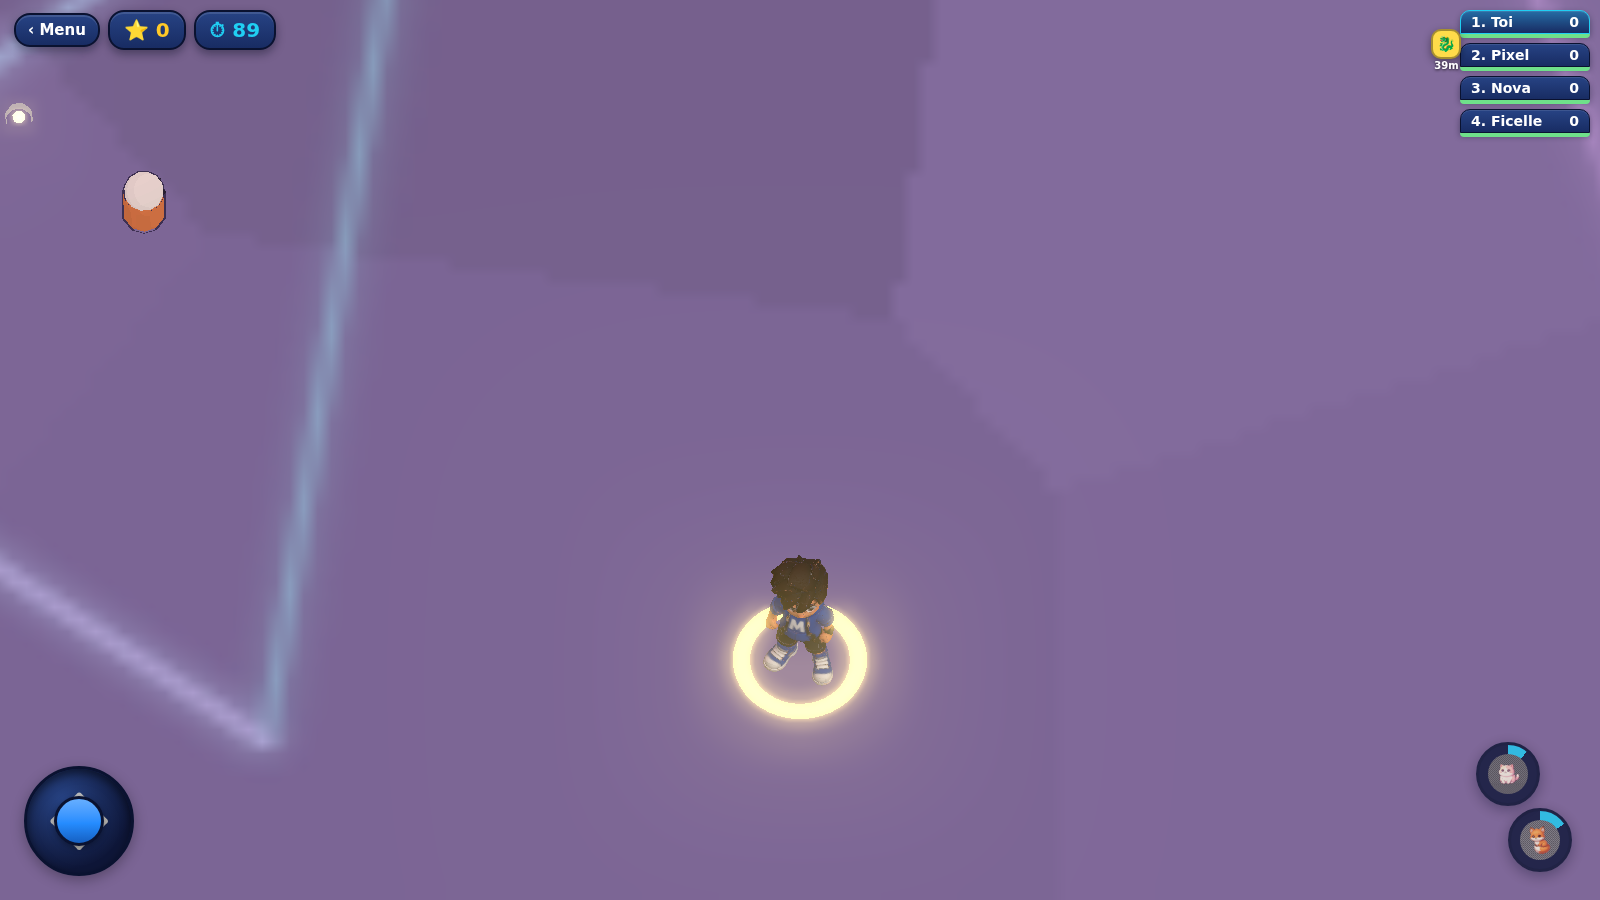
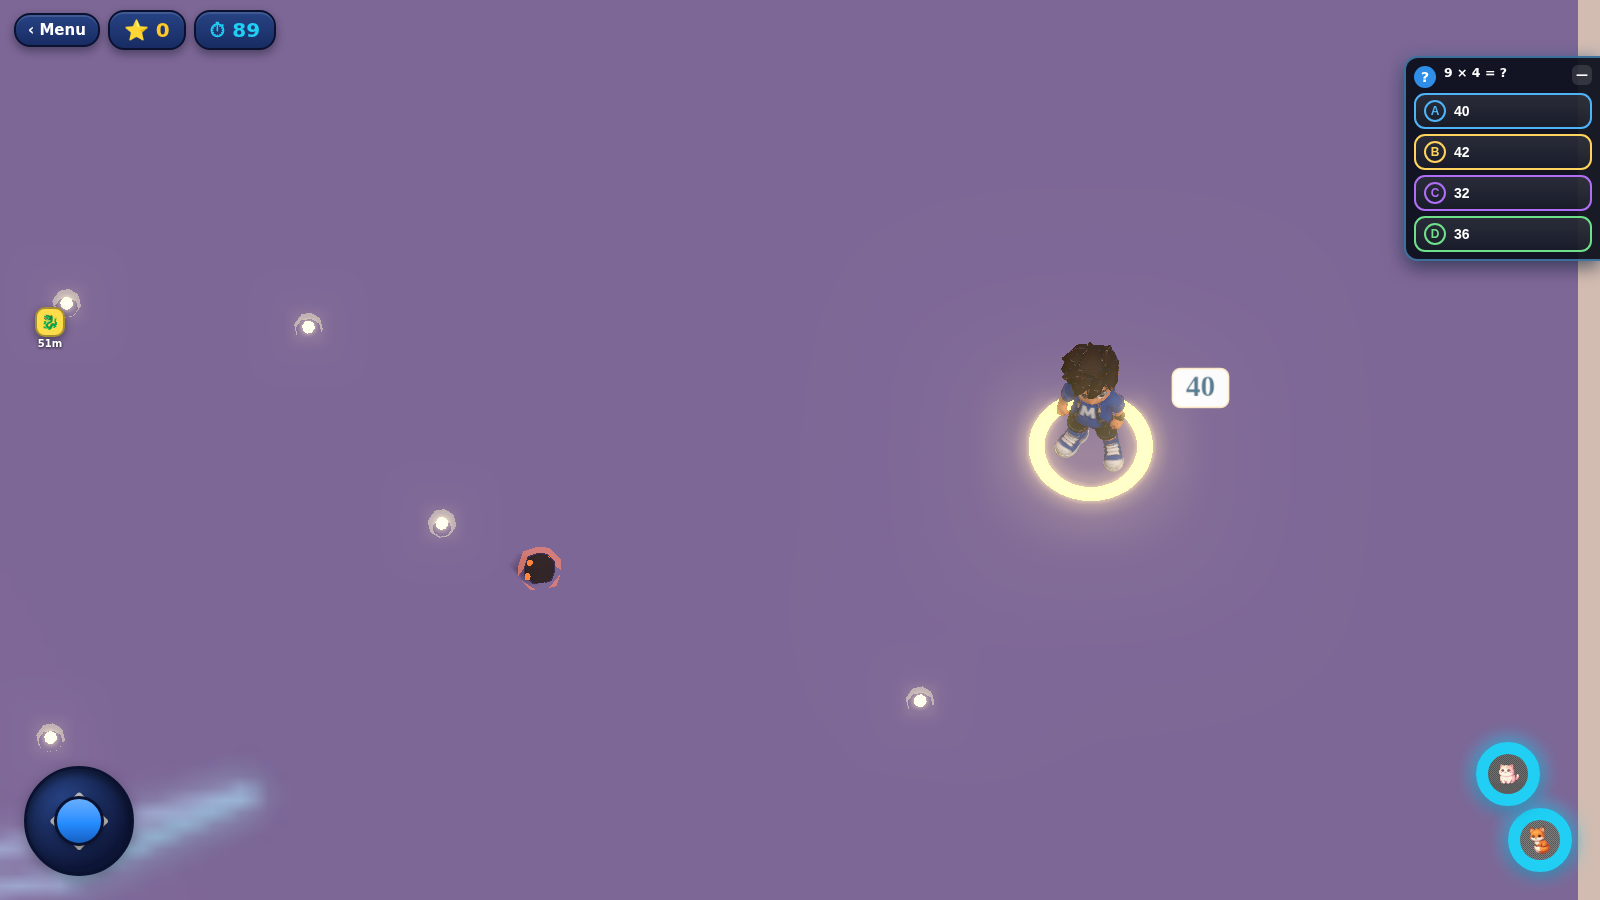
Arène : GAMEPLAY V4 — question dès le départ, choix libre verrouillé, guidage séquentiel
Spec V4 complète de Camille (2026-08-10), implémentée sur l'existant :

- §1-2 : la question + les réponses apparaissent au top départ, en même
  temps que le dragon (startDragonQuestion depuis spawnLumin) — plus de
  phase vide, plus d'attente de la 1re capture
- §3-4 : AUCUN timer de réponse (barre 5 s supprimée) ; panneau
  rétractable par la languette « — », ré-ouvrable par la pilule « ? »
  tant qu'aucune réponse n'est choisie
- §5 : le choix est VERROUILLÉ pour la tentative (plus de toggle), le
  panneau et la pilule disparaissent, « Réponse choisie : X » bref
- §6/§10/§17 : guidage SÉQUENTIEL — l'indicateur 🐉 de bord d'écran vit
  tant que le joueur ne porte pas (dragon libre OU porteur adverse) ;
  les chevrons+distance n'existent que porteur+réponse ; jamais les deux
- §12 : badges de zones supprimés ; seule la colonne de lumière de la
  zone CHOISIE s'allume (les zones restent physiquement dans le monde)
- §7/§18 : icône 🐉 au-dessus de la tête du porteur (sprite),
  vibration mobile à la capture locale (pas de flash plein écran — règle
  DA « jamais de voile » ; pas de son — aucun système audio)
- §9 : capture sans réponse → panneau ré-ouvert automatiquement (STATE 2)
- §15-16 : mauvaise tentative du joueur → selectedAnswer=null, panneau
  accessible à nouveau, zone désactivée (mécanique existante conservée)

Machine d'états vérifiée par probe complet (STATE 1 → réduction →
ré-ouverture → choix verrouillé → capture/STATE 3 → mauvaise réponse →
[…]

diff --git a/public/spike3d-arena.html b/public/spike3d-arena.html
@@ -75,10 +75,12 @@
          box-shadow: 0 6px 18px rgba(4,9,28,0.55), 0 0 14px rgba(96,190,255,0.25);
          display: none; pointer-events: auto; }
   #question-block.show { display: block; }
-  /* barre de temps de réponse (5 s) : pilotée en JS — jamais par une
-     transition CSS (figée en rendu logiciel, piège gravé le 2026-08-09) */
-  #qb-bar { height: 4px; border-radius: 2px; margin-bottom: 6px;
-         background: linear-gradient(90deg, #4fb3f7, #8ef0c9); width: 100%; }
+  /* languette de réduction du panneau (V4 §3 — pas de timer de réponse) */
+  #qb-min { flex: 0 0 auto; margin-left: auto; width: 20px; height: 20px;
+         border-radius: 6px; background: rgba(255,255,255,0.12); color: #fff;
+         font-weight: 900; font-size: 12px; display: flex; align-items: center;
+         justify-content: center; cursor: pointer;
+         -webkit-tap-highlight-color: transparent; }
   /* bouton « ? » de ré-ouverture quand le bloc est masqué en pleine question */
   #qb-reopen { position: fixed; top: max(56px, var(--safe-top) + 52px);
          right: 0; z-index: 15; width: 34px; height: 34px;
@@ -538,8 +540,7 @@
      réponses empilées cliquables — remplace le bandeau pour les questions
      (le bandeau ne sert plus qu'aux annonces). -------- -->
 <div id="question-block">
-  <div id="qb-bar"></div>
-  <div class="qb-head"><span class="qb-qmark">?</span><span id="qb-text"></span></div>
+  <div class="qb-head"><span class="qb-qmark">?</span><span id="qb-text"></span><span id="qb-min">—</span></div>
   <div id="qb-answers"></div>
 </div>
 <div id="qb-reopen">?</div>
@@ -913,38 +914,30 @@ const ZONE_COLORS = { A: 0x4fb3f7, B: 0xffd35c, C: 0xb06ef5, D: 0x6fe08a };
 // 2026-08-10 : « l'utilisateur sélectionne la réponse et une flèche devant
 // le personnage, comme une boussole, lui affiche la direction ») --------
 let selectedZoneLetter = null;
-// -------- cycle de vie du bloc de question (retour Camille 2026-08-10) :
-// visible 5 s (barre décomptée en haut, pilotée en JS), s'efface dès que
-// le joueur a choisi OU à l'expiration ; le bouton « ? » au bord droit le
-// ré-ouvre tant que la question est active --------
-const QB_READ_SECONDS = 5;
-let qbTimerInterval = 0;
+// -------- cycle de vie du bloc de question — GAMEPLAY V4 (spec Camille
+// 2026-08-10) : question visible dès le GO, AUCUN timer de réponse (la
+// pression vient du jeu), panneau rétractable (« — » pour réduire, « ? »
+// pour rouvrir) tant qu'aucune réponse n'est choisie ; le CHOIX est
+// VERROUILLÉ pour la tentative, le panneau disparaît alors totalement --------
 function showQuestionBlock() {
-  const block = document.getElementById('question-block');
-  block.classList.add('show');
+  document.getElementById('question-block').classList.add('show');
   document.getElementById('qb-reopen').classList.remove('show');
-  const bar = document.getElementById('qb-bar');
-  const deadline = performance.now() + QB_READ_SECONDS * 1000;
-  clearInterval(qbTimerInterval);
-  bar.style.width = '100%';
-  qbTimerInterval = setInterval(() => {
-    const left = Math.max(0, deadline - performance.now());
-    bar.style.width = `${(left / (QB_READ_SECONDS * 1000)) * 100}%`;
-    if (left <= 0) hideQuestionBlock();
-  }, 100);
 }
 function hideQuestionBlock() {
-  clearInterval(qbTimerInterval);
   document.getElementById('question-block').classList.remove('show');
-  // ré-ouverture possible tant que la question est active
-  document.getElementById('qb-reopen').classList.toggle('show', dragonQuestionActive);
+  // la pilule « ? » n'est proposée que si la question est encore ouverte
+  // au choix (spec V4 §3 : « disponible tant qu'aucune réponse choisie »)
+  document.getElementById('qb-reopen').classList.toggle('show',
+    dragonQuestionActive && !selectedZoneLetter);
 }
 function selectAnswerZone(letter) {
-  selectedZoneLetter = selectedZoneLetter === letter ? null : letter;
+  if (!letter || selectedZoneLetter || !dragonQuestionActive) return; // choix verrouillé (V4 §5)
+  selectedZoneLetter = letter;
   document.querySelectorAll('.qa-row').forEach(c =>
     c.classList.toggle('selected', c.dataset.letter === selectedZoneLetter));
-  // choix fait → le bloc s'efface, les chevrons prennent le relais
-  if (selectedZoneLetter) hideQuestionBlock();
+  hideQuestionBlock();
+  spawnFloatingText(player.position.clone().add(new THREE.Vector3(0, 1.9, 0)),
+    `Réponse choisie : ${letter}`, hexCss(ZONE_COLORS[letter]));
 }
 let compassArrow = null;
 function ensureCompassArrow() {
@@ -2618,17 +2611,17 @@ function updateOffscreenIndicator(key, worldX, worldZ, colorHex, glyph) {
 function updateOffscreenIndicators() {
   if (luminState === 'AVAILABLE' && currentLumin) {
     updateOffscreenIndicator('dragon', currentLumin.position.x, currentLumin.position.z, 0xffdc4a, '🐉');
+  } else if (luminState === 'CARRIED' && luminOwnerId && luminOwnerId !== player) {
+    // -------- V4 §17 : dragon porté par un ADVERSAIRE → l'indicateur suit
+    // le porteur (guidage « vers le dragon / porteur ») --------
+    updateOffscreenIndicator('dragon', luminOwnerId.position.x, luminOwnerId.position.z, 0xffdc4a, '🐉');
   } else {
     removeOffscreenEl('dragon');
   }
-  ZONE_LETTERS.forEach(letter => {
-    const zone = zones.find(z => z.letter === letter);
-    if (zone && !zone.eliminated) {
-      updateOffscreenIndicator(`zone-${letter}`, zone.pos.x, zone.pos.z, ZONE_COLORS[letter], letter);
-    } else {
-      removeOffscreenEl(`zone-${letter}`);
-    }
-  });
+  // -------- V4 §10/§12 : JAMAIS deux directions simultanées, et le joueur
+  // ne voit pas la position des 4 zones — les badges de zones sont
+  // supprimés ; seule la flèche-boussole vers SA zone choisie guide --------
+  ZONE_LETTERS.forEach(letter => removeOffscreenEl(`zone-${letter}`));
 }
 // -------- annonces brèves (spawn/sécurisation/résultat) : réutilise le
 // bandeau du haut — totalement inerte côté ancien système en LUMIN_MODE
@@ -2668,9 +2661,29 @@ function spawnLumin() {
   spawnBurst(currentLumin.position.clone(), 0xffdc4a, 20);
   // popup « UN DRAGON EST APPARU ! » supprimé (décision Camille 2026-08-10) —
   // le burst + l'indicateur 🐉 de bord d'écran suffisent
+  // -------- GAMEPLAY V4 (§1-2) : la question démarre EN MÊME TEMPS que le
+  // dragon (top départ et chaque nouvelle manche) — plus d'attente de la
+  // 1re capture, pas de phase vide --------
+  if (!dragonQuestionActive) startDragonQuestion();
 }
 // -------- halo du porteur — anneau lumineux ajouté en enfant de l'entité,
 // créé une seule fois et réutilisé (comme iceShell/shieldMesh). --------
+// -------- icône 🐉 au-dessus de la tête du porteur (V4 §18 : lisibilité
+// en mêlée — dragon attaché + anneau + icône) --------
+function ensureDragonIcon(entity) {
+  if (entity.userData.dragonIcon) return entity.userData.dragonIcon;
+  const c = document.createElement('canvas'); c.width = 64; c.height = 64;
+  const ctx = c.getContext('2d');
+  ctx.font = '46px serif'; ctx.textAlign = 'center'; ctx.textBaseline = 'middle';
+  ctx.fillText('🐉', 32, 36);
+  const spr = new THREE.Sprite(new THREE.SpriteMaterial({ map: new THREE.CanvasTexture(c), depthTest: false, transparent: true }));
+  spr.scale.setScalar(0.66);
+  spr.position.set(0, entityHeadHeight(entity) + 0.75, 0);
+  spr.visible = false;
+  entity.add(spr);
+  entity.userData.dragonIcon = spr;
+  return spr;
+}
 function ensureLuminHalo(entity) {
   if (entity.userData.luminHalo) return entity.userData.luminHalo;
   const ring = new THREE.Mesh(
@@ -2686,6 +2699,7 @@ function ensureLuminHalo(entity) {
 }
 function setLuminHolder(entity) {
   if (luminOwnerId && luminOwnerId.userData.luminHalo) luminOwnerId.userData.luminHalo.visible = false;
+  if (luminOwnerId && luminOwnerId.userData.dragonIcon) luminOwnerId.userData.dragonIcon.visible = false;
   luminOwnerId = entity;
   luminState = 'CARRIED';
   luminStealImmuneUntil = performance.now() + LUMIN_CONFIG.stealImmunitySeconds * 1000;
@@ -2705,9 +2719,11 @@ function setLuminHolder(entity) {
     currentLumin.scale.setScalar(LUMIN_CARRIED_SCALE);
   }
   ensureLuminHalo(entity).visible = true;
+  ensureDragonIcon(entity).visible = true;
 }
 function clearLuminHolder() {
   if (luminOwnerId && luminOwnerId.userData.luminHalo) luminOwnerId.userData.luminHalo.visible = false;
+  if (luminOwnerId && luminOwnerId.userData.dragonIcon) luminOwnerId.userData.dragonIcon.visible = false;
   luminOwnerId = null;
 }
 // -------- capture : 1ère capture de la manche -> lance la question
@@ -2720,7 +2736,14 @@ function captureLumin(entity) {
   spawnFloatingText(entity.position.clone().add(new THREE.Vector3(0, 1.6, 0)),
     entity === player ? 'Dragon capturé !' : `${entity.userData.name} a le dragon !`, '#ffdc4a');
   shakeCamera(0.14);
-  if (!dragonQuestionActive) startDragonQuestion();
+  if (!dragonQuestionActive) startDragonQuestion(); // filet (la question part normalement au spawn, V4)
+  // -------- V4 §7/§9 : feedback local de capture (vibration si dispo — pas
+  // de flash plein écran, interdit par la règle DA) + STATE 2 : capture
+  // sans réponse choisie → le panneau question se rouvre automatiquement --------
+  if (entity === player) {
+    if (navigator.vibrate) { try { navigator.vibrate(80); } catch {} }
+    if (!selectedZoneLetter) showQuestionBlock();
+  }
 }
 // -------- vol — appelé par une attaque offensive réussie (voir handler
 // "push" plus bas) sur le porteur actuel, ou par le hook debug
@@ -2771,6 +2794,7 @@ function makeZoneVisual(zone) {
     new THREE.MeshBasicMaterial({ color, transparent: true, opacity: 0.26,
       blending: THREE.AdditiveBlending, depthWrite: false, side: THREE.DoubleSide }));
   beam.position.y = 3.5;
+  beam.visible = false; // V4 §12 : seule la colonne de la zone CHOISIE s'allume
   g.add(beam);
   g.userData.beam = beam;
   const ring = new THREE.Mesh(new THREE.RingGeometry(LUMIN_CONFIG.zoneRadius - 0.12, LUMIN_CONFIG.zoneRadius + 0.05, 32),
@@ -2877,10 +2901,10 @@ function resolveCorrectZone(entity) {
 function resolveWrongZone(entity, zone) {
   zone.eliminated = true;
   eliminateZoneVisual(zone);
-  // la zone choisie vient d'être éliminée → boussole éteinte, on ré-ouvre
-  // le bloc (avec sa barre de 5 s) pour re-choisir ; sinon le bloc garde
-  // son état (le render ne force plus l'affichage)
-  const mustRechoose = selectedZoneLetter === zone.letter;
+  // -------- V4 §16 : après une mauvaise tentative DU JOUEUR (ou si sa
+  // zone choisie vient d'être éliminée par un autre), selectedAnswer est
+  // remis à zéro et le panneau redevient accessible pour re-choisir --------
+  const mustRechoose = entity === player || selectedZoneLetter === zone.letter;
   if (mustRechoose) selectedZoneLetter = null;
   renderLuminQuestionBanner();
   if (mustRechoose) showQuestionBlock();
@@ -3145,9 +3169,14 @@ const QUESTIONS = [
 const questionBannerEl = document.getElementById('question-banner');
 const questionTextEl = document.getElementById('question-text');
 const questionTimerEl = document.getElementById('question-timer');
-// ré-ouverture du bloc de question via le bouton « ? » du bord droit
+// ré-ouverture du bloc de question via le bouton « ? » du bord droit,
+// réduction via la languette « — » (V4 §3)
 document.getElementById('qb-reopen').addEventListener('pointerdown', () => {
-  if (dragonQuestionActive) showQuestionBlock();
+  if (dragonQuestionActive && !selectedZoneLetter) showQuestionBlock();
+});
+document.getElementById('qb-min').addEventListener('pointerdown', e => {
+  e.stopPropagation();
+  hideQuestionBlock();
 });
 // -------- barre du bas (planche ChatGPT, 2026-08-07) : affichage seul,
 // aucun handler clic — la vraie réponse reste la pastille 3D. Rendue depuis
@@ -4357,8 +4386,16 @@ function animate() {
       // -------- flèche-boussole vers la zone de réponse choisie (2026-08-10) :
       // tourne autour du joueur, couleur de la zone, pulse léger --------
       {
+        // V4 §12 : seule la colonne de lumière de MA zone choisie est allumée
+        zones.forEach(z => {
+          if (z.group && z.group.userData.beam && !z.eliminated) {
+            z.group.userData.beam.visible = z.letter === selectedZoneLetter;
+          }
+        });
         const arrow = ensureCompassArrow();
-        const zoneSel = selectedZoneLetter && dragonQuestionActive
+        // V4 §8/§10 : la flèche n'existe que si JE porte le dragon ET que
+        // j'ai choisi — jamais en même temps que l'indicateur dragon
+        const zoneSel = selectedZoneLetter && dragonQuestionActive && luminOwnerId === player
           ? zones.find(z => z.letter === selectedZoneLetter && !z.eliminated) : null;
         if (zoneSel && !player.userData.eliminated) {
           const ang = Math.atan2(zoneSel.pos.x - player.position.x, zoneSel.pos.z - player.position.z);

diff --git a/docs/mecaniques-arene.md b/docs/mecaniques-arene.md
@@ -5,7 +5,18 @@ petit peu les mécaniques »). Toutes les valeurs sont dans
 `public/spike3d-arena.html` (`ENERGY`, `LUMIN_CONFIG`, `KO_CONFIG`,
 `PET_DEFINITIONS`, `SPARK_CONFIG`, `ENERGY_CRYSTAL_CONFIG`).
 
-## Boucle principale
+## Boucle principale (GAMEPLAY V4, spec Camille 2026-08-10)
+
+**La question est visible dès le top départ** (pas d'attente de capture),
+sans timer de réponse — la pression vient du jeu. Le joueur peut choisir
+sa réponse À TOUT MOMENT (avant ou après la capture) ; le choix est
+VERROUILLÉ pour la tentative. Guidage SÉQUENTIEL : tant qu'on ne porte
+pas le dragon → indicateur 🐉 (vers le dragon libre OU son porteur) ;
+une fois porteur + réponse choisie → chevrons + distance vers SA zone.
+Jamais deux directions à l'écran. Les badges de zones sont supprimés ;
+seule la colonne de lumière de la zone choisie s'allume.
+
+### Ancienne boucle (pré-V4, pour mémoire)
 
 1. Un **dragon** apparaît (loin des joueurs, souvent hors écran — suivre
    l'indicateur 🐉 en bord d'écran avec la distance en mètres).
